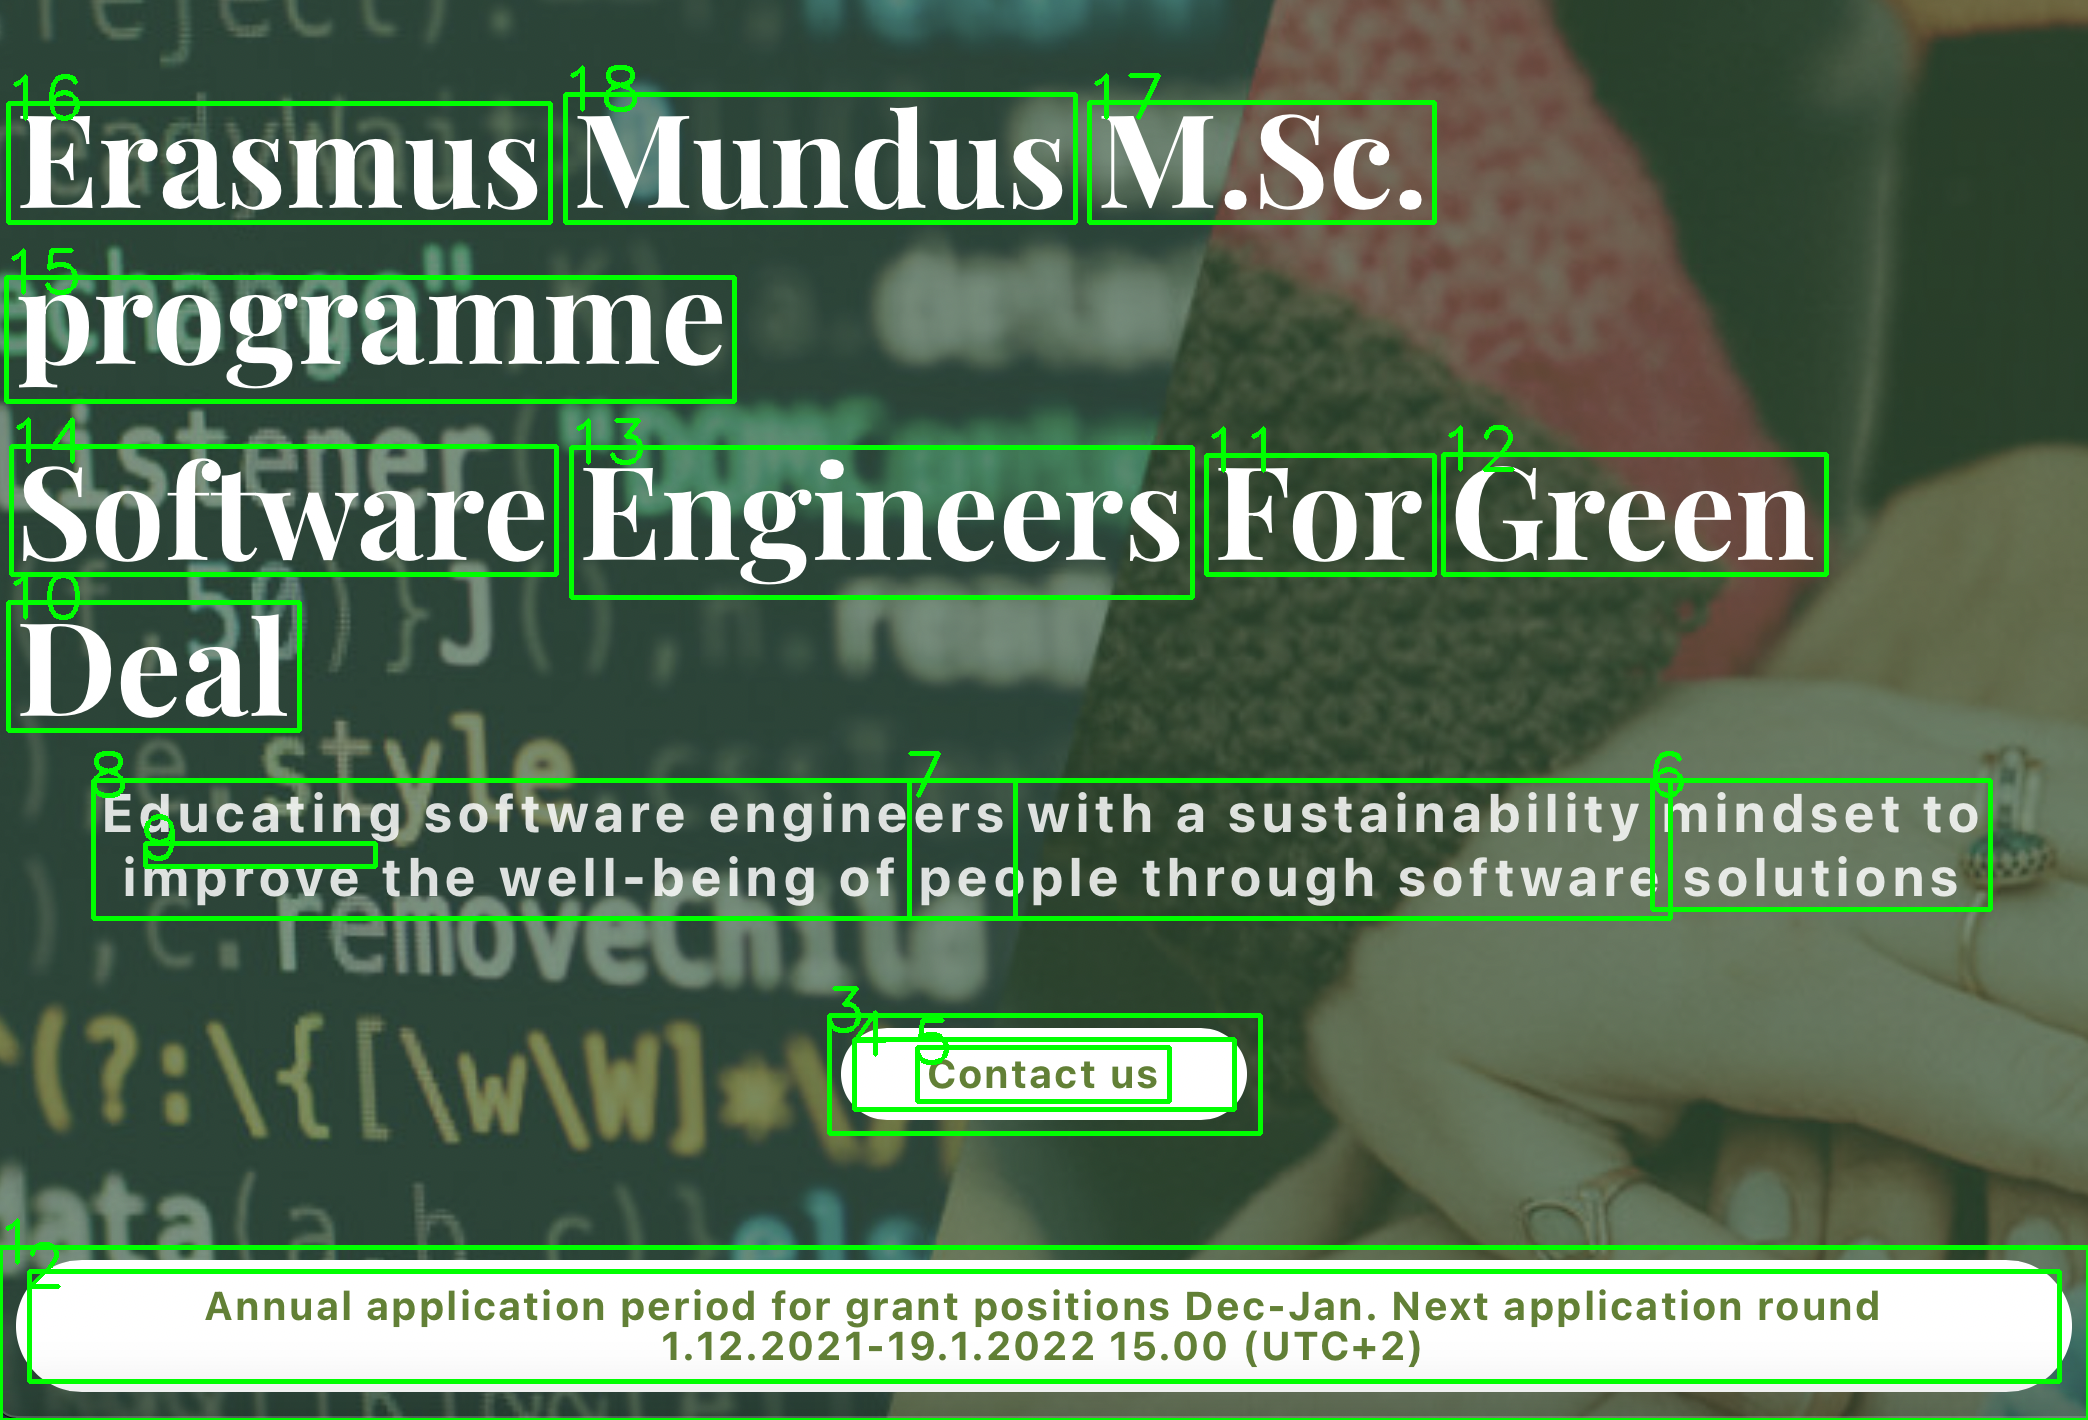
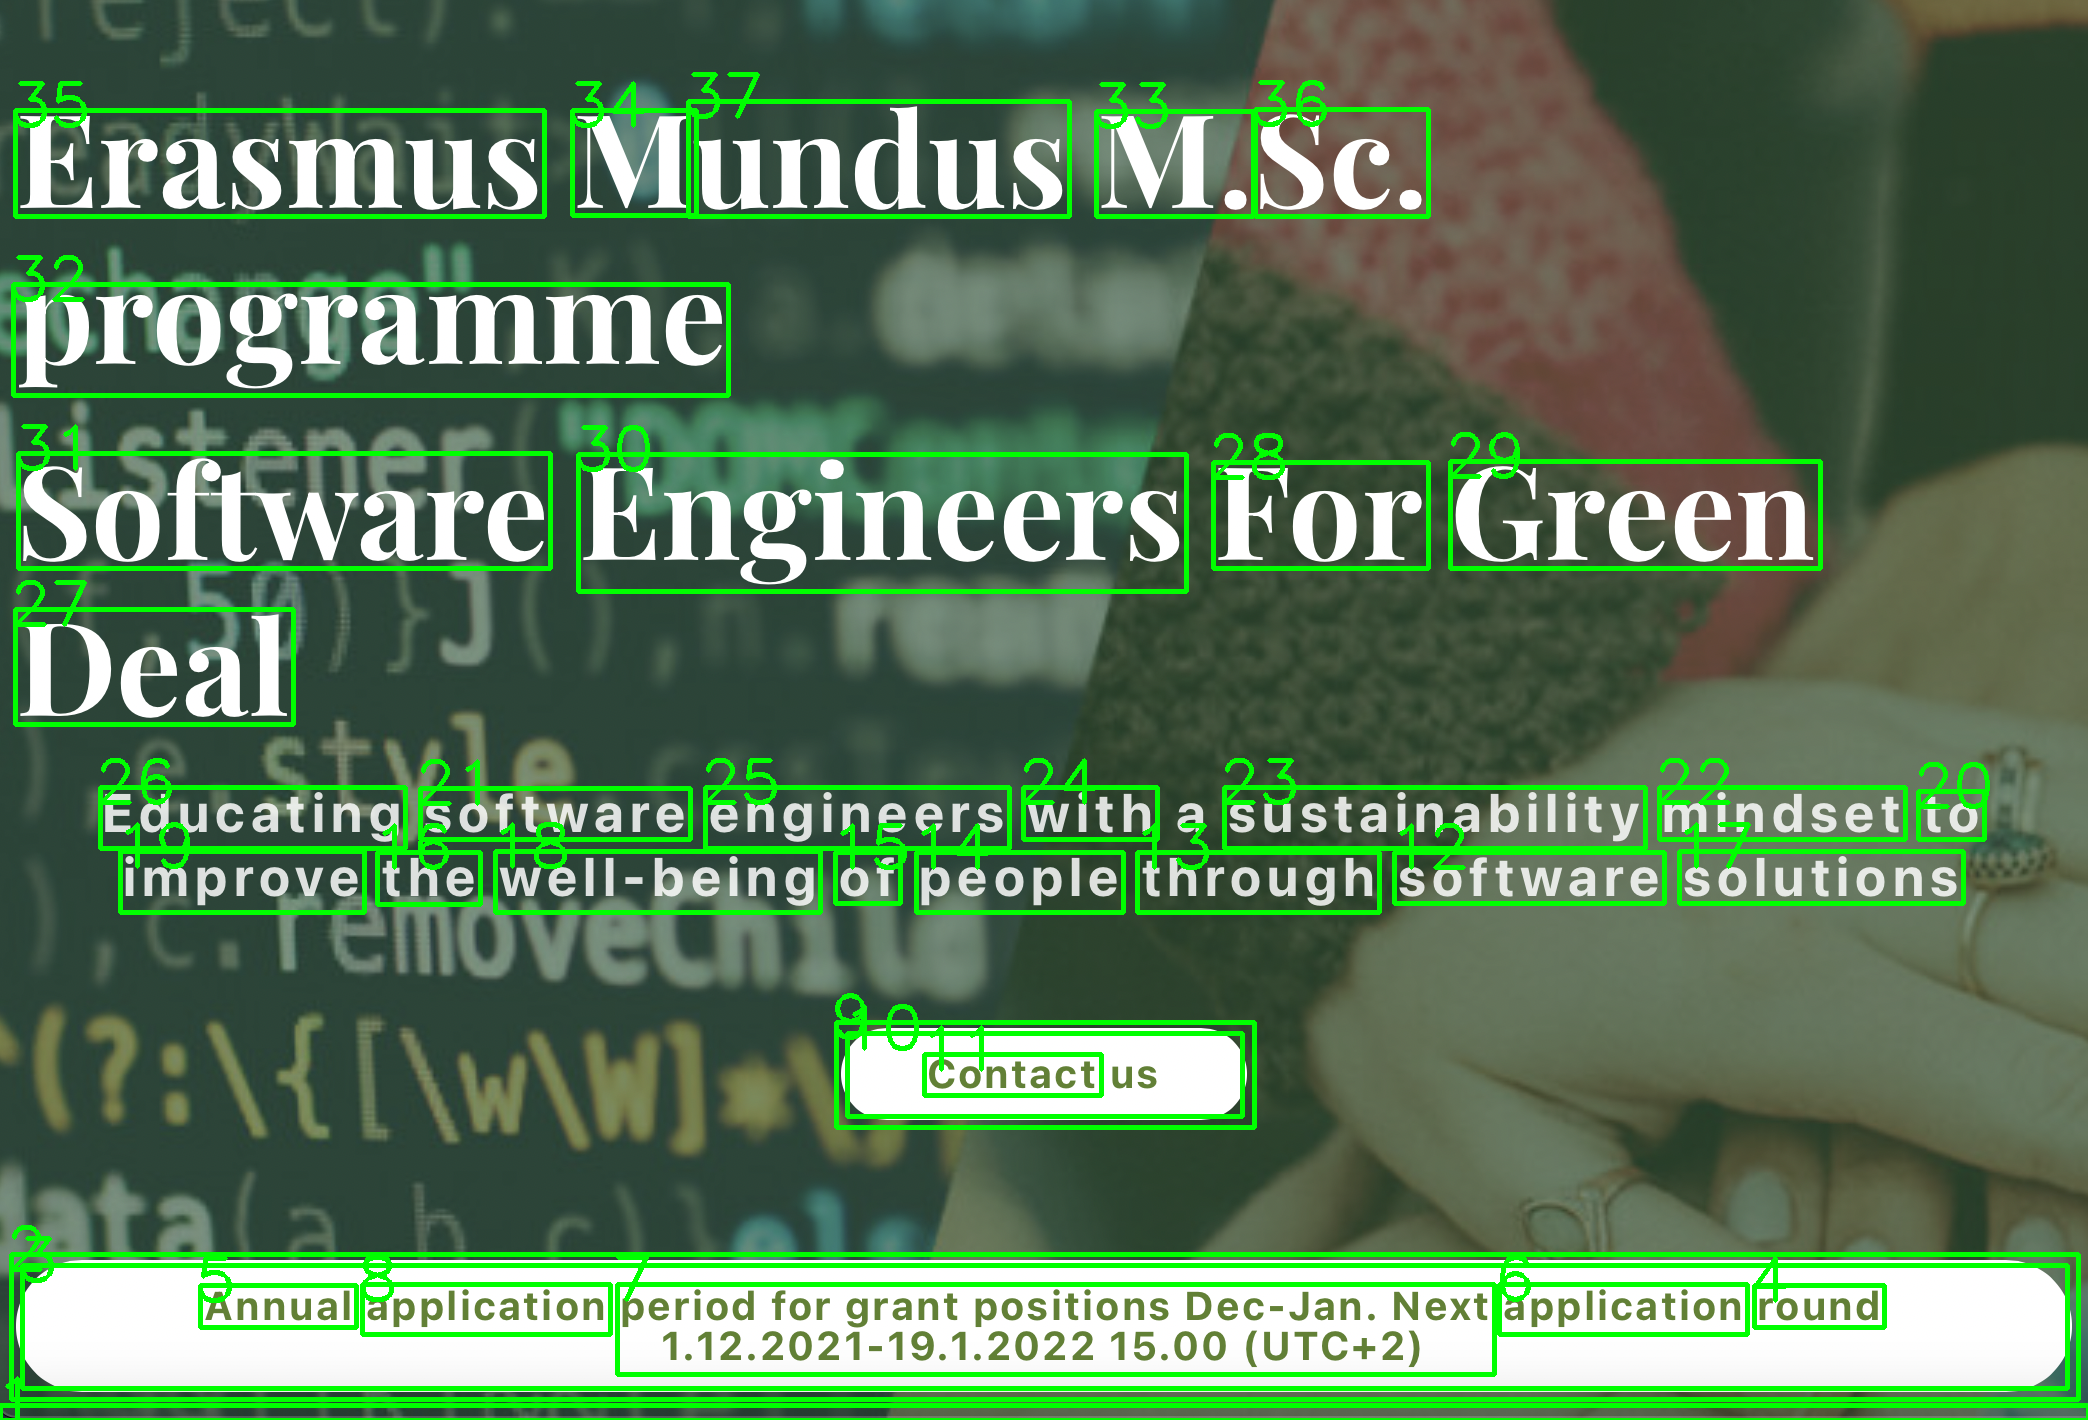
[34] Rajitha - Added font size to json file

Changed region(s): [[0.0, 0.031, 0.965, 0.6507], [0.0, 0.8676, 1.0, 0.9915], [0.3736, 0.6817, 0.6226, 0.8056]]

diff --git a/routes/checkimage.js b/routes/checkimage.js
@@ -32,24 +32,24 @@ router.post('/upload',(req,res)=>{
 router.post('/evaluate', (req,res)=>{
     try{
         var dataToSend;
+        console.log('img1: ' + imgName)
         if(imgName != undefined || variable != null){
             // spawn new child process to call the python script
             const imgScript = spawn('python3', ['./img_process/main.py',imgName]);
             // collect data from script
             imgScript.stdout.on('data',  (data)=> {
                 dataToSend = data.toString();
-                
+                console.log('dataToSend: ', dataToSend)
+
             });
 
 
             imgScript.on('close', (code) => {
                 imgName = undefined;
-                //res.send(dataToSend);
-                //console.log(JSON.parse(dataToSend));
                     
                 axios.post('http://'+env.HOST+":"+ env.PORT+"/api/color-contrast",JSON.parse(dataToSend))
                 .then((response)=>{
-                    //console.log(response.data);
+
                     res.send(response.data)
                 });
                 

diff --git a/img_process/process.py b/img_process/process.py
@@ -16,7 +16,7 @@ class ImageProcess():
         img_gray = cv2.bitwise_and(img_gray,img_gray, mask=mask)
        
         edges = cv2.Canny(img_gray,128,255)
-        rect_kernel = cv2.getStructuringElement(cv2.MORPH_RECT, (25,25))
+        rect_kernel = cv2.getStructuringElement(cv2.MORPH_RECT, (15,15))
         edges = cv2.dilate(edges, rect_kernel, iterations = 1)
         
         return self.draw_contours(edges,img_name)
@@ -31,7 +31,7 @@ class ImageProcess():
         contours, hierarchy = cv2.findContours(img, cv2.RETR_TREE, cv2.CHAIN_APPROX_SIMPLE)
 
         for cnt in contours:
-            if cv2.contourArea(cnt) > 1000:
+            if cv2.contourArea(cnt) > 2000:
                 x, y, w, h = cv2.boundingRect(cnt)
                 cv2.rectangle(img2, (x, y), (x + w, y + h), (0,255,0), 4)
                 ROI = self.img[y:y+h, x:x+w]
@@ -51,7 +51,6 @@ class ImageProcess():
                 img_arr["color_2"] = color_2
 
                 img_arr["is_bold"] = False
-                img_arr["text_size"] = 19
 
                 img_list.append(img_arr)
                 cv2.putText(img2,str(num),(x-5,y+15), font, 2,(0,255,0),3)

diff --git a/img_process/checktext.py b/img_process/checktext.py
@@ -1,6 +1,5 @@
 import json
 import numpy as np
-import math 
 
 def check_height(x):
     if 80 <= x <= 97 :
@@ -56,7 +55,8 @@ def calculation(json_data):
         pt_size = (pxt_opt(px_size))
         text_size.append(pt_size)
 
-    id_font = dict(zip(id_list, text_size))
+        item['text_size'] = pt_size
+
 
     """     print(id_list)
     print(box_height_list)
